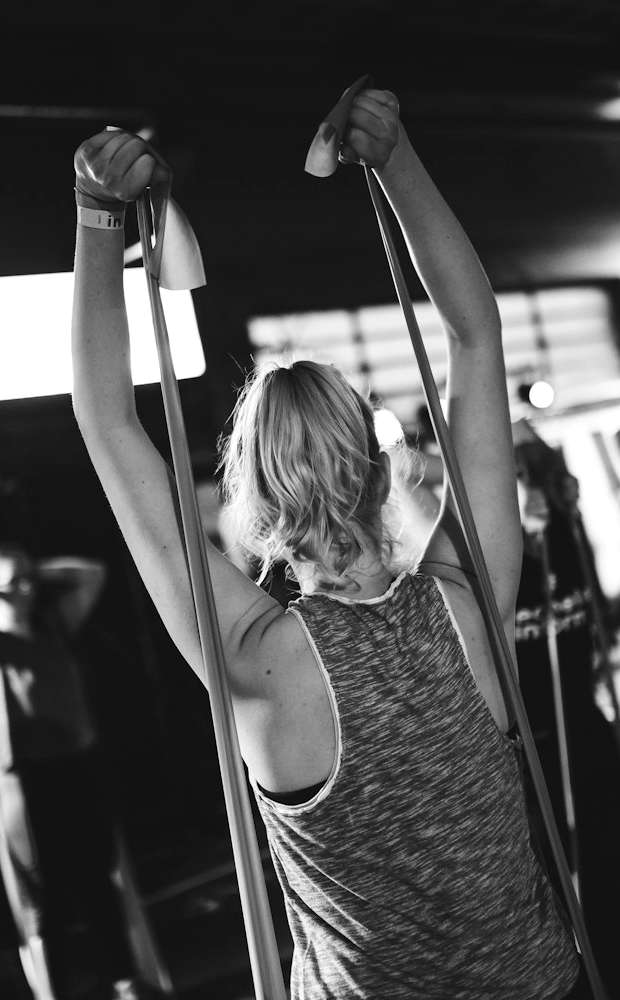
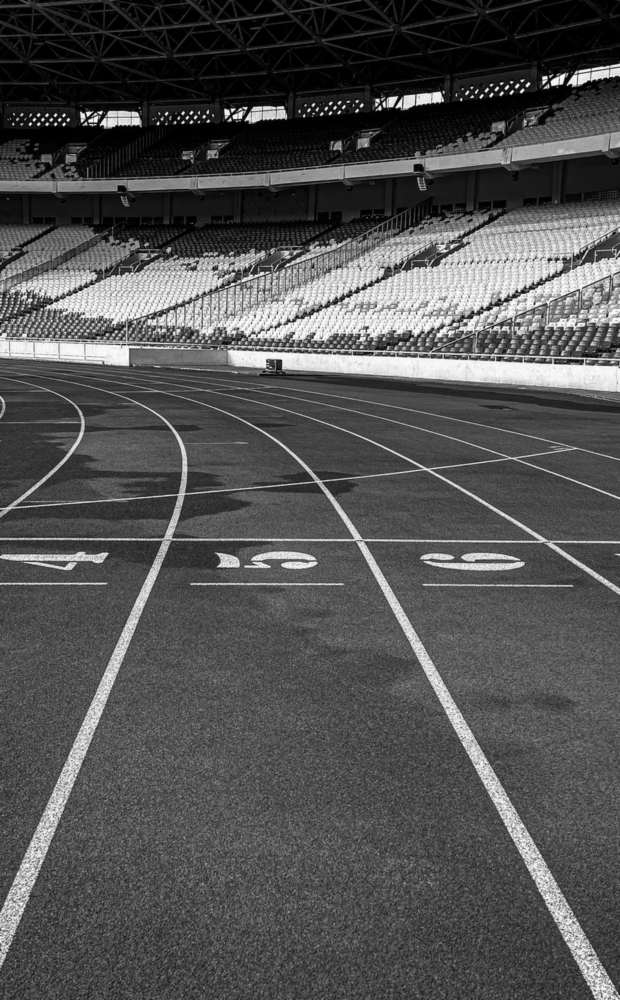
Lighter photo backgrounds (level C), running track behind the chat
The photo backgrounds on home, shop and chat show stronger and the
sections over them are more see-through (--photo-o 0.74, --layer-o 0.5,
--layer-alt-o 0.62). The chat page now has a running track in a stadium
behind it (Unsplash, Anisa Ryanda Putri, black and white); chat
timestamps get a soft shadow so they stay readable on it.

Claude-Session: https://claude.ai/code/session_01T5i9vFNQBAMXZqmqNfakbt

diff --git a/profile.html b/profile.html
@@ -4,8 +4,8 @@
   <meta charset="UTF-8">
   <meta name="viewport" content="width=device-width, initial-scale=1.0, maximum-scale=1.0, user-scalable=no, viewport-fit=cover">
   <title>Player profile | LEVEL-UP</title>
-  <script src="i18n-nl.js?v=202611130900"></script>
-  <script src="i18n.js?v=202611130900"></script>
+  <script src="i18n-nl.js?v=202611131000"></script>
+  <script src="i18n.js?v=202611131000"></script>
   <meta name="description" content="A LEVEL-UP player or coach: level, photos, group classes and, for coaches, their calendar to book a session.">
   <meta property="og:type" content="website">
   <meta property="og:site_name" content="LEVEL-UP">
@@ -29,10 +29,10 @@
   <link rel="preconnect" href="https://fonts.googleapis.com">
   <link rel="preconnect" href="https://fonts.gstatic.com" crossorigin>
   <link href="https://fonts.googleapis.com/css2?family=Barlow+Condensed:ital,wght@0,600;0,700;0,800;1,600;1,700;1,800&family=Inter:wght@400;500;600;700&display=swap" rel="stylesheet">
-  <link rel="stylesheet" href="style.css?v=202611130900">
-  <link rel="stylesheet" href="shop.css?v=202611130900">
-  <link rel="stylesheet" href="profile.css?v=202611130900">
-  <link rel="stylesheet" href="member.css?v=202611130900">
+  <link rel="stylesheet" href="style.css?v=202611131000">
+  <link rel="stylesheet" href="shop.css?v=202611131000">
+  <link rel="stylesheet" href="profile.css?v=202611131000">
+  <link rel="stylesheet" href="member.css?v=202611131000">
 </head>
 <body>
 
@@ -140,13 +140,13 @@
 
   <script src="https://cdn.jsdelivr.net/npm/@supabase/supabase-js@2.117.2/dist/umd/supabase.min.js"></script>
   <script src="https://cdn.jsdelivr.net/npm/ical.js@1.5.0/build/ical.min.js"></script>
-  <script src="game.js?v=202611130900"></script>
-  <script src="schedule.js?v=202611130900"></script>
-  <script src="statements.js?v=202611130900"></script>
-  <script src="hours-editor.js?v=202611130900"></script>
-  <script src="hours-planner.js?v=202611130900"></script>
-  <script src="classes.js?v=202611130900"></script>
-  <script src="member.js?v=202611130900"></script>
-  <script src="profile.js?v=202611130900"></script>
+  <script src="game.js?v=202611131000"></script>
+  <script src="schedule.js?v=202611131000"></script>
+  <script src="statements.js?v=202611131000"></script>
+  <script src="hours-editor.js?v=202611131000"></script>
+  <script src="hours-planner.js?v=202611131000"></script>
+  <script src="classes.js?v=202611131000"></script>
+  <script src="member.js?v=202611131000"></script>
+  <script src="profile.js?v=202611131000"></script>
 </body>
 </html>

diff --git a/index.html b/index.html
@@ -4,8 +4,8 @@
   <meta charset="UTF-8">
   <meta name="viewport" content="width=device-width, initial-scale=1.0, maximum-scale=1.0, user-scalable=no, viewport-fit=cover">
   <title>LEVEL-UP | Personal Training & Group Workouts</title>
-  <script src="i18n-nl.js?v=202611130900"></script>
-  <script src="i18n.js?v=202611130900"></script>
+  <script src="i18n-nl.js?v=202611131000"></script>
+  <script src="i18n.js?v=202611131000"></script>
   <meta name="description" content="Book your personal trainer in Aalst: 1:1, duo and group training. Earn XP every session, climb the ranks and level up.">
   <meta property="og:type" content="website">
   <meta property="og:site_name" content="LEVEL-UP">
@@ -29,7 +29,7 @@
   <link rel="preconnect" href="https://fonts.googleapis.com">
   <link rel="preconnect" href="https://fonts.gstatic.com" crossorigin>
   <link href="https://fonts.googleapis.com/css2?family=Barlow+Condensed:ital,wght@0,600;0,700;0,800;1,600;1,700;1,800&family=Inter:wght@400;500;600;700&display=swap" rel="stylesheet">
-  <link rel="stylesheet" href="style.css?v=202611130900">
+  <link rel="stylesheet" href="style.css?v=202611131000">
   <script type="application/ld+json">
   {"@context":"https://schema.org","@type":"SportsActivityLocation","name":"LEVEL-UP Personal Training",
    "url":"https://pieterrvds.github.io/LEVEL-UP-/","telephone":"+32471955489","email":"PieterV-D-S@hotmail.com",
@@ -508,8 +508,8 @@
 
   <script src="https://cdn.jsdelivr.net/npm/@supabase/supabase-js@2.117.2/dist/umd/supabase.min.js"></script>
   <script src="https://cdn.jsdelivr.net/npm/ical.js@1.5.0/build/ical.min.js"></script>
-  <script src="game.js?v=202611130900"></script>
-  <script src="script.js?v=202611130900"></script>
-  <script src="schedule.js?v=202611130900"></script>
+  <script src="game.js?v=202611131000"></script>
+  <script src="script.js?v=202611131000"></script>
+  <script src="schedule.js?v=202611131000"></script>
 </body>
 </html>

diff --git a/chat.css b/chat.css
@@ -1,11 +1,11 @@
 /* LEVEL-UP chat page: conversation list + conversation, like a messaging app */
 .chat-page { position: relative; padding: calc(var(--hud-h) + 24px) 0 24px; }
-/* Like the home page and the shop: a photo that hangs still behind the page (people training together) and the
+/* Like the home page and the shop: a photo that hangs still behind the page (a running track in a stadium) and the
    chat as a see-through layer over it. How dark: --photo-o and --layer-o in style.css. */
 .chat-page .page-photo { position: fixed; inset: 0 0 auto; height: 100vh; height: 100lvh; transform: translateZ(0); pointer-events: none; }
-.chat-page .page-photo::before { content: ""; position: absolute; inset: 0; background: url(img/chat-bg.jpg) center / cover no-repeat; opacity: calc(var(--photo-o) + 0.05); }
+.chat-page .page-photo::before { content: ""; position: absolute; inset: 0; background: url(img/chat-bg.jpg?v=2) center / cover no-repeat; opacity: calc(var(--photo-o) + 0.05); }
 .chat-page .chat-app { background: rgba(var(--bg-rgb), var(--layer-o)); }
-@media (max-width: 700px) { .chat-page .page-photo::before { background-image: url(img/chat-bg-small.jpg); opacity: var(--photo-o); } }
+@media (max-width: 700px) { .chat-page .page-photo::before { background-image: url(img/chat-bg-small.jpg?v=2); opacity: var(--photo-o); } }
 .chat-page .container { max-width: 1100px; }
 
 .chat-app {
@@ -108,7 +108,7 @@
 .chat-msg.end { margin-bottom: 8px; }
 .chat-msg.pending p { opacity: 0.6; }
 .chat-msg.failed p { background: none; color: var(--red); border: 1px dashed var(--red); box-shadow: none; }
-.chat-meta { margin-top: 4px; padding: 0 4px; font-size: 0.72rem; color: var(--muted); }
+.chat-meta { margin-top: 4px; padding: 0 4px; font-size: 0.72rem; color: var(--muted); text-shadow: 0 1px 2px rgba(0, 0, 0, 0.75); }
 
 .chat-compose {
   display: flex; align-items: flex-end; gap: 10px; padding: 12px 14px;

diff --git a/shop.html b/shop.html
@@ -4,8 +4,8 @@
   <meta charset="UTF-8">
   <meta name="viewport" content="width=device-width, initial-scale=1.0, maximum-scale=1.0, user-scalable=no, viewport-fit=cover">
   <title>Item Shop | LEVEL-UP</title>
-  <script src="i18n-nl.js?v=202611130900"></script>
-  <script src="i18n.js?v=202611130900"></script>
+  <script src="i18n-nl.js?v=202611131000"></script>
+  <script src="i18n.js?v=202611131000"></script>
   <meta name="description" content="LEVEL-UP merch and training tools. Every euro you spend earns XP, so gear up and level up.">
   <meta property="og:type" content="website">
   <meta property="og:site_name" content="LEVEL-UP">
@@ -29,8 +29,8 @@
   <link rel="preconnect" href="https://fonts.googleapis.com">
   <link rel="preconnect" href="https://fonts.gstatic.com" crossorigin>
   <link href="https://fonts.googleapis.com/css2?family=Barlow+Condensed:ital,wght@0,600;0,700;0,800;1,600;1,700;1,800&family=Inter:wght@400;500;600;700&display=swap" rel="stylesheet">
-  <link rel="stylesheet" href="style.css?v=202611130900">
-  <link rel="stylesheet" href="shop.css?v=202611130900">
+  <link rel="stylesheet" href="style.css?v=202611131000">
+  <link rel="stylesheet" href="shop.css?v=202611131000">
   <script src="https://www.paypal.com/sdk/js?client-id=AcJLXipsreQDWPNqUNKBknNhohnvhY3QtkXKNNSk0zMkYhvPgxcF-kFYKxaTadXAAbiyW4ZOO1Fummpb&currency=EUR" defer></script>
 </head>
 <body>
@@ -202,7 +202,7 @@
   </dialog>
 
   <script src="https://cdn.jsdelivr.net/npm/@supabase/supabase-js@2.117.2/dist/umd/supabase.min.js"></script>
-  <script src="game.js?v=202611130900"></script>
-  <script src="shop.js?v=202611130900"></script>
+  <script src="game.js?v=202611131000"></script>
+  <script src="shop.js?v=202611131000"></script>
 </body>
 </html>

diff --git a/admin.html b/admin.html
@@ -28,10 +28,10 @@
   <link rel="preconnect" href="https://fonts.googleapis.com">
   <link rel="preconnect" href="https://fonts.gstatic.com" crossorigin>
   <link href="https://fonts.googleapis.com/css2?family=Barlow+Condensed:ital,wght@0,600;0,700;0,800;1,600;1,700;1,800&family=Inter:wght@400;500;600;700&display=swap" rel="stylesheet">
-  <link rel="stylesheet" href="style.css?v=202611130900">
-  <link rel="stylesheet" href="shop.css?v=202611130900">
-  <link rel="stylesheet" href="profile.css?v=202611130900">
-  <link rel="stylesheet" href="admin.css?v=202611130900">
+  <link rel="stylesheet" href="style.css?v=202611131000">
+  <link rel="stylesheet" href="shop.css?v=202611131000">
+  <link rel="stylesheet" href="profile.css?v=202611131000">
+  <link rel="stylesheet" href="admin.css?v=202611131000">
 </head>
 <body>
 
@@ -93,11 +93,11 @@
 
   <script src="https://cdn.jsdelivr.net/npm/@supabase/supabase-js@2.117.2/dist/umd/supabase.min.js"></script>
   <script src="https://cdn.jsdelivr.net/npm/ical.js@1.5.0/build/ical.min.js"></script>
-  <script src="game.js?v=202611130900"></script>
-  <script src="statements.js?v=202611130900"></script>
-  <script src="hours-editor.js?v=202611130900"></script>
-  <script src="hours-planner.js?v=202611130900"></script>
-  <script src="classes.js?v=202611130900"></script>
-  <script src="admin.js?v=202611130900"></script>
+  <script src="game.js?v=202611131000"></script>
+  <script src="statements.js?v=202611131000"></script>
+  <script src="hours-editor.js?v=202611131000"></script>
+  <script src="hours-planner.js?v=202611131000"></script>
+  <script src="classes.js?v=202611131000"></script>
+  <script src="admin.js?v=202611131000"></script>
 </body>
 </html>

diff --git a/privacy.html b/privacy.html
@@ -4,8 +4,8 @@
   <meta charset="UTF-8">
   <meta name="viewport" content="width=device-width, initial-scale=1.0, maximum-scale=1.0, user-scalable=no, viewport-fit=cover">
   <title>Privacy policy | LEVEL-UP</title>
-  <script src="i18n-nl.js?v=202611130900"></script>
-  <script src="i18n.js?v=202611130900"></script>
+  <script src="i18n-nl.js?v=202611131000"></script>
+  <script src="i18n.js?v=202611131000"></script>
   <meta name="description" content="How LEVEL-UP handles your personal data: what we store, why, who sees it and your rights.">
   <meta property="og:type" content="website">
   <meta property="og:site_name" content="LEVEL-UP">
@@ -29,8 +29,8 @@
   <link rel="preconnect" href="https://fonts.googleapis.com">
   <link rel="preconnect" href="https://fonts.gstatic.com" crossorigin>
   <link href="https://fonts.googleapis.com/css2?family=Barlow+Condensed:ital,wght@0,600;0,700;0,800;1,600;1,700;1,800&family=Inter:wght@400;500;600;700&display=swap" rel="stylesheet">
-  <link rel="stylesheet" href="style.css?v=202611130900">
-  <link rel="stylesheet" href="privacy.css?v=202611130900">
+  <link rel="stylesheet" href="style.css?v=202611131000">
+  <link rel="stylesheet" href="privacy.css?v=202611131000">
   </head>
 <body>
   <div class="xp-track" aria-hidden="true"><div class="xp-fill" id="xpFill"></div></div>
@@ -266,6 +266,6 @@
   </footer>
 
   <script src="https://cdn.jsdelivr.net/npm/@supabase/supabase-js@2.117.2/dist/umd/supabase.min.js"></script>
-  <script src="game.js?v=202611130900"></script>
+  <script src="game.js?v=202611131000"></script>
 </body>
 </html>

diff --git a/chat.html b/chat.html
@@ -4,8 +4,8 @@
   <meta charset="UTF-8">
   <meta name="viewport" content="width=device-width, initial-scale=1.0, maximum-scale=1.0, user-scalable=no, viewport-fit=cover">
   <title>Chat | LEVEL-UP</title>
-  <script src="i18n-nl.js?v=202611130900"></script>
-  <script src="i18n.js?v=202611130900"></script>
+  <script src="i18n-nl.js?v=202611131000"></script>
+  <script src="i18n.js?v=202611131000"></script>
   <meta name="description" content="Chat privately with your LEVEL-UP coach.">
   <meta property="og:type" content="website">
   <meta property="og:site_name" content="LEVEL-UP">
@@ -30,7 +30,7 @@
   <link rel="preconnect" href="https://fonts.googleapis.com">
   <link rel="preconnect" href="https://fonts.gstatic.com" crossorigin>
   <link href="https://fonts.googleapis.com/css2?family=Barlow+Condensed:ital,wght@0,600;0,700;0,800;1,600;1,700;1,800&family=Inter:wght@400;500;600;700&display=swap" rel="stylesheet">
-  <link rel="stylesheet" href="style.css?v=202611130900">
+  <link rel="stylesheet" href="style.css?v=202611131000">
   <link rel="stylesheet" href="chat.css?v=202610150930">
 </head>
 <body>
@@ -81,7 +81,7 @@
 
 
   <script src="https://cdn.jsdelivr.net/npm/@supabase/supabase-js@2.117.2/dist/umd/supabase.min.js"></script>
-  <script src="game.js?v=202611130900"></script>
-  <script src="chat.js?v=202611130900"></script>
+  <script src="game.js?v=202611131000"></script>
+  <script src="chat.js?v=202611131000"></script>
 </body>
 </html>

diff --git a/style.css b/style.css
@@ -456,7 +456,7 @@ a { color: inherit; }
    Photos: Unsplash (free licence), see README.md. The rank colour glow of .hero-bg stays underneath. */
 /* How dark it is, in one place: --photo-o = how strong the photo shows, --layer-o / --layer-alt-o = how solid the
    sections over it are (lower = more of the photo shines through). Also used by the chat page (chat.css). */
-:root { --photo-o: 0.5; --layer-o: 0.74; --layer-alt-o: 0.84; }
+:root { --photo-o: 0.74; --layer-o: 0.5; --layer-alt-o: 0.62; }
 #home.hero, .shop-hero { isolation: auto; }
 #home .hero-bg, .shop-hero .hero-bg { position: fixed; inset: 0 0 auto; height: 100vh; height: 100lvh; transform: translateZ(0); pointer-events: none; }
 #home .hero-bg::before, .shop-hero .hero-bg::before {

diff --git a/sw.js b/sw.js
@@ -5,7 +5,7 @@
 // - Supabase, payments and other servers are never touched.
 // - Push: shows the notifications the Edge Function "push" sends; tapping one opens the right page.
 // Bump VERSION to clear old caches.
-const VERSION = "levelup-v43";
+const VERSION = "levelup-v44";
 const PRECACHE = ["offline.html", "i18n-nl.js", "i18n.js", "img/app/icon-192.png", "img/app/badge-96.png"];
 
 // Push texts come from the server in English; in Dutch (the language the site last used) they are translated here

diff --git a/README.md b/README.md
@@ -169,8 +169,8 @@ for 10 minutes).
 screen): the hero text and every section after it slide over it as a second layer. The sections are dark glass
 (a see-through background), the cards on them are solid. The shop works the same way, with a rack of dumbbells
 behind it (`img/shop-bg.jpg`, `img/shop-bg-small.jpg`: a free photo from Unsplash by Rick Barrett / Ambitious
-Studio, made black and white). The chat page has one too: a group training together (`img/chat-bg.jpg`,
-`img/chat-bg-small.jpg`: a free photo from Unsplash by Geert Pieters), with the chat as the see-through layer.
+Studio, made black and white). The chat page has one too: a running track in a stadium (`img/chat-bg.jpg`,
+`img/chat-bg-small.jpg`: a free photo from Unsplash by Anisa Ryanda Putri, made black and white), with the chat as the see-through layer.
 How dark it all is sits in one place, at the top of that block in `style.css`: `--photo-o` (how strong the photo
 shows) and `--layer-o` / `--layer-alt-o` (how solid the sections over it are). Level 1 · How it works is a small animated demo on a loop (`#howto`, `howItWorks` in `script.js`):
 four scenes (sign up +50 XP, pick a trainer, book an hour, train and level up) with an XP bar that follows the
